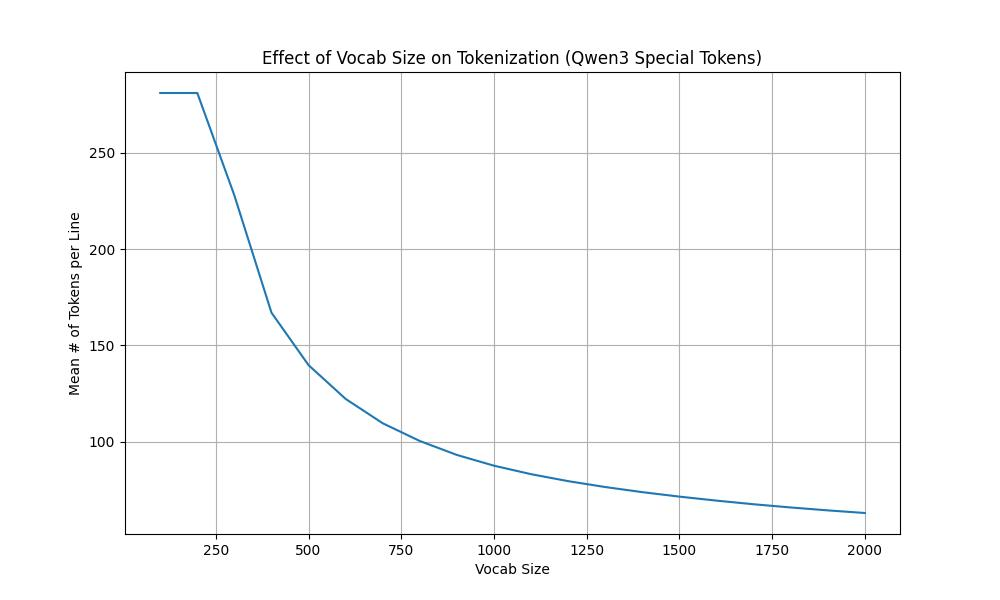
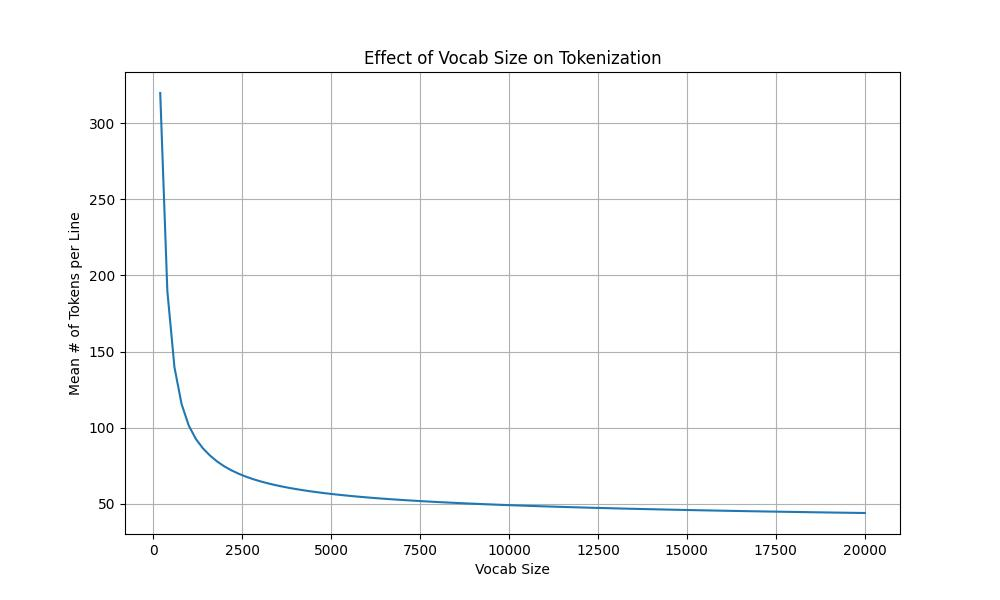
update retriever tokenizer

diff --git a/getLaws.py b/getLaws.py
@@ -5,12 +5,13 @@ import subprocess
 
 url = 'https://flk.npc.gov.cn/api/?'
 
+filename = "laws"
+if not os.path.exists(filename):
+    os.mkdir(filename)
+
 types={"flfg":"法律", "jcfg":"监察法规", "sfjs":"司法解释", "xffl":"宪法", "xzfg":"行政法规","dfxfg":"地方性法规"}
 pages={"flfg":70, "jcfg":1, "sfjs":86, "xffl":1, "xzfg":80,"dfxfg":2492}
 for type in types:
-    filename = type
-    if not os.path.exists(filename):
-        os.mkdir(filename)
     for page in range(1,pages[type]+1):
         headers = {
         'User-Agent': 'Mozilla/5.0 (Windows NT 10.0; Win64; x64) AppleWebKit/537.36 (KHTML, like Gecko) Chrome/120.0.0.0 Safari/537.36'
@@ -47,9 +48,9 @@ for type in types:
                 with open(docx_filename, mode='wb') as f:
                     f.write(content)
     
-                #pdf_filename = filename + '/'  + title + '.pdf'
-                #convert(docx_filename, pdf_filename)
-                #subprocess.call("taskkill /im WINWORD.EXE /f", shell=True)   
+                pdf_filename = filename + '/'  + title + '.pdf'
+                convert(docx_filename, pdf_filename)
+                subprocess.call("taskkill /im WINWORD.EXE /f", shell=True)   
         except Exception as e:
             print(e)
             try:

diff --git a/trainEmbeddingModel_QLoRA.py b/trainEmbeddingModel_QLoRA.py
@@ -162,4 +162,4 @@ for epoch in tqdm(range(n_epoch), desc="Training"):
 
     tqdm.write(f"Epoch {epoch}: Avg Loss = {loss:.4f}")
 
-torch.save(model, 'EmbeddingModel_QloRA.pth')
+model.save_pretrained("EmbeddingModel_QLoRA")

diff --git a/trainRetrieverTokenizer.py b/trainRetrieverTokenizer.py
@@ -20,7 +20,7 @@ tokenizer.normalizer = normalizers.NFC()
 
 trainer = trainers.BpeTrainer(
     #vocab_size=tk.vocab_size,
-    vocab_size=20000,
+    vocab_size=10000,
     min_frequency=2,
 )
 

diff --git a/readme.md b/readme.md
@@ -10,9 +10,11 @@
             - 数据选取：因为设备资源有限，本项目并不能处理总数据集中的每一条法律条文，只能处理其中一部分子集，为了使得该子集能够尽可能地代表原数据集。使用Qwen3-Embedding-0.6B模型将它们的条文部分内容转化为向量。在向量空间中使用贪心算法获得分布均匀、代表性强的子集。原始数据集大小为382779，在权衡了GPU的推理速度和时间之后，将子集的大小设置为10000。
             - 随机选取chunk作为正例样本，基于qwen3-235b-a22b-instruct-2507模型使用self instruct方法自动化生成(query, postive_doc, negative_doc0,...,negative_dock)组合
         - Embedding 模型：
-            - 重新训练：使用Qwen3-Embedding-0.6B架构，但不使用其权重和Embedding矩阵。
+            - 架构，统一使用Qwen3-Embedding-0.6B架构
+            - 重新训练：不使用其权重和Embedding矩阵。
+                - Tokenizer重新训练：将被筛选的
                 - 损失函数使用Qwen3-Embedding的损失函数。
-            - QLoRA微调： 使用Qwen/Qwen3-Embedding-0.6B的架构和权重，使用QLoRA微调
+            - QLoRA微调： 使用预训练权重初始化
 
 # 结果及分析
 ## Retriever
@@ -20,7 +22,7 @@
 使用已分好块的语料库做测试，计算每一个chunk对应的Token数量的平均数。
 |     | Pretrained Tokenizer   | Retrained Tokenizer |
 |:---:|:---:|:---:|
-|  # of Mean Token  | 54.17386496216359 | 22.577796558983728 |
+|  # of Mean Token  | 63.668085703592816 | 44.35299571311921 |
 
 可以看出，重新训练的Tokenizer所需的平均Token数量更少，这是因为它是根据该任务特定的语料库作训练的，在针对性上做得更好。
 
